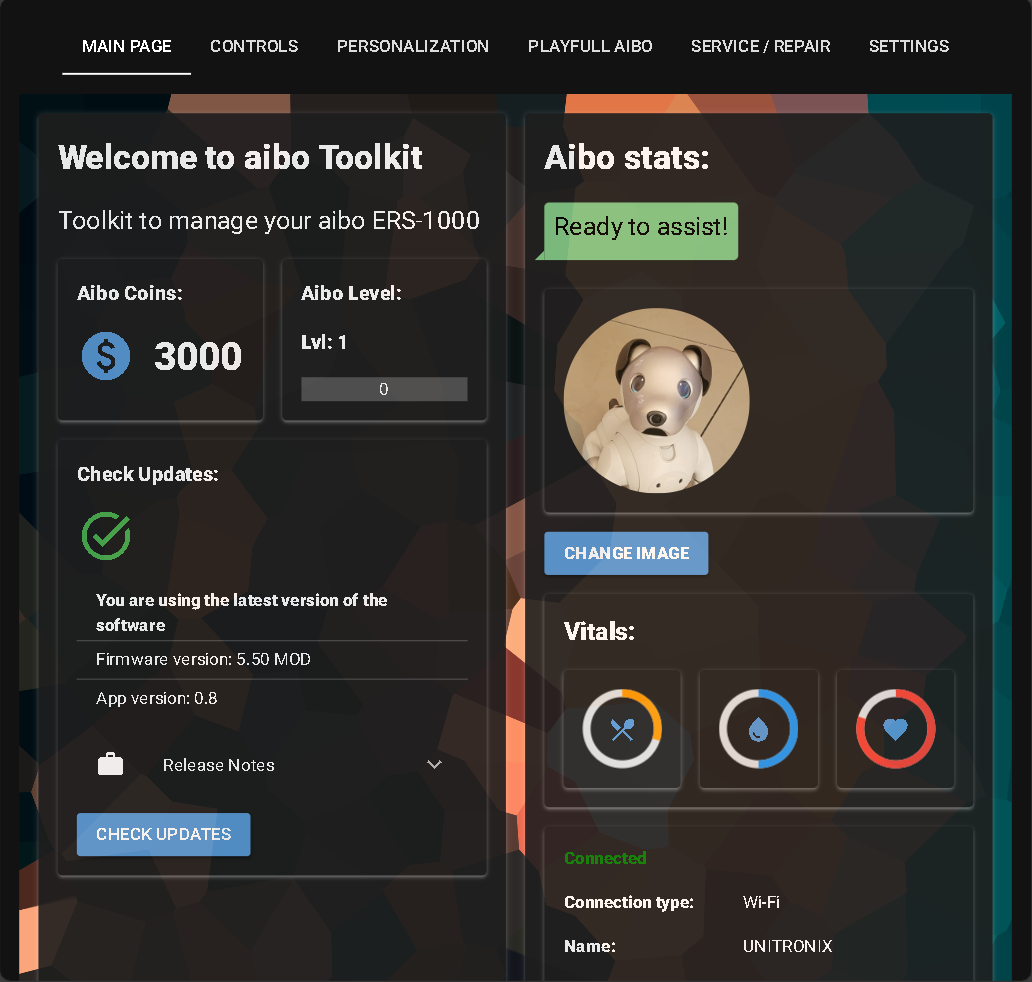
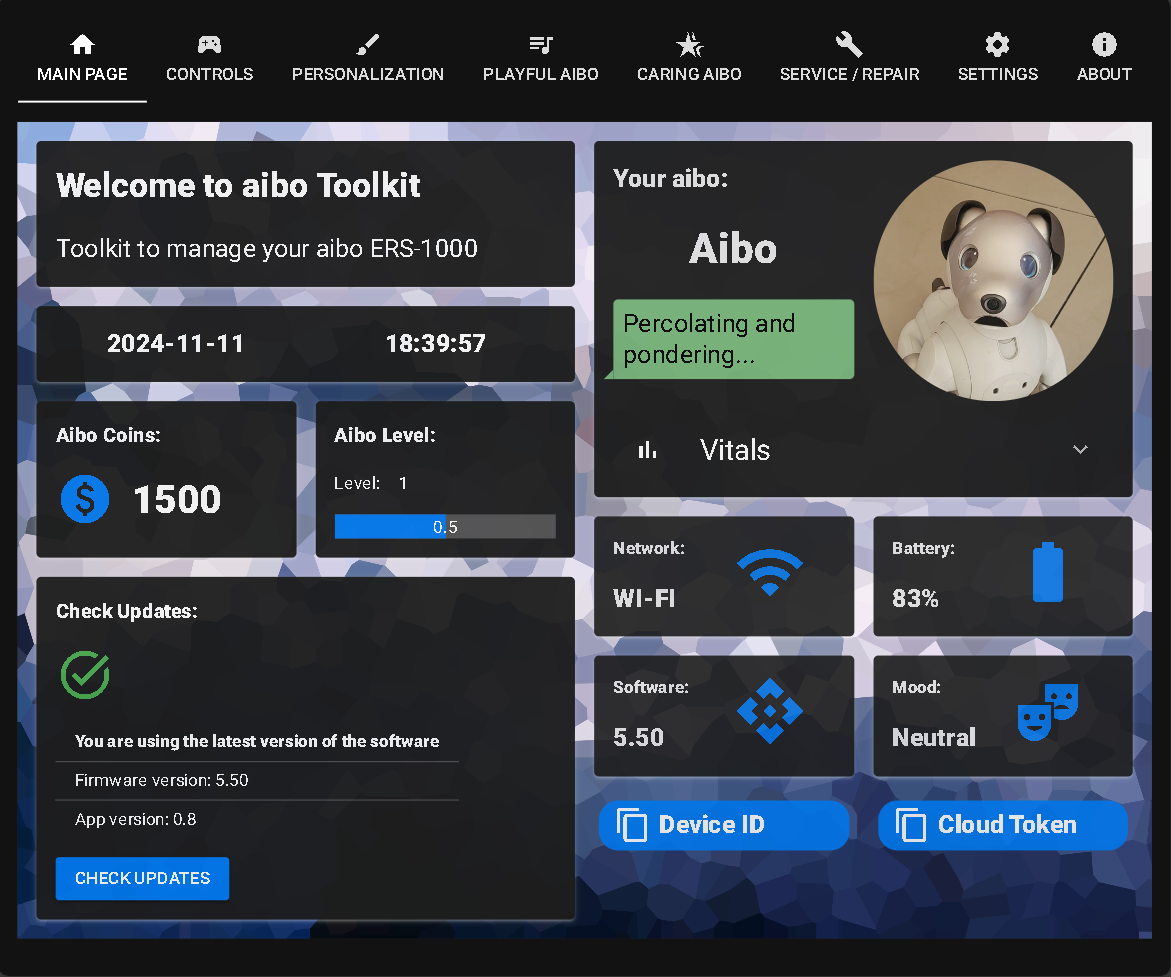
Micro update 11.11.2024 - New App image in Github desc

diff --git a/main.py b/main.py
@@ -146,7 +146,8 @@ with ui.tabs().classes('w-full') as tabs:
     home = ui.tab('Main Page', icon='home').style('font-size: 200%; font-weight: 1000')
     controls = ui.tab('Controls', icon='sports_esports').style('font-size: 200%; font-weight: 1000')
     personalization = ui.tab('Personalization', icon='brush').style('font-size: 200%; font-weight: 1000')
-    playful_aibo = ui.tab('Playfull Aibo', icon='hotel_class').style('font-size: 200%; font-weight: 1000')
+    playful_aibo = ui.tab('Playful Aibo', icon='queue_music').style('font-size: 200%; font-weight: 1000')
+    careful_aibo = ui.tab('Caring Aibo', icon='hotel_class').style('font-size: 200%; font-weight: 1000')
     service = ui.tab('Service / Repair', icon='build').style('font-size: 200%; font-weight: 1000')
     settings = ui.tab('Settings', icon='settings').style('font-size: 200%; font-weight: 1000')
     about = ui.tab('About', icon='info').style('font-size: 200%; font-weight: 1000')
@@ -354,7 +355,17 @@ with ui.tab_panels(tabs, value=home).classes('w-full'):
                                 ui.label('Global Japanese for Aibo')
                                 ui.button('Apply', on_click=lambda: ui.notify('Japanese language applied to Aibo'))
     
-    # Playful Aibo
+    # New playful aibo tab
+    with ui.tab_panel(playful_aibo):
+        ui.image(background_image_set).classes('absolute inset-0')
+        with ui.row().classes('grid grid-cols-2 w-full'):
+            with ui.card():
+                ui.label('Default dance #1').style('font-size: 150%; font-weight: 1000')
+                ui.separator()
+                with ui.expansion('More info', icon='music_note').classes('w-full'):
+                    ui.label('Rich desc..').style('font-size: 110%; font-weight: 500')
+
+    # Caring Aibo Tab
     with ui.tab_panel(playful_aibo):
         ui.image(background_image_set).classes('absolute inset-0')
         with ui.row().classes('grid grid-cols-1 w-full') as home_row:          
@@ -504,7 +515,7 @@ with ui.tab_panels(tabs, value=home).classes('w-full'):
                     with ui.carousel(animated=True, arrows=True, navigation=True):
                         with ui.carousel_slide().classes('p-0'):
                             ui.image('images/background/35.png').classes('w-[500px] h-[500px]')
-                            ui.button('Select', on_click=bg_changer.close)
+                            ui.button('Select', on_click=bg_changer.close).classes('w-full')
                         with ui.carousel_slide().classes('p-0'):
                             ui.image('images/background/116.png').classes('w-[500px] h-[500px]')
                             ui.button('Select', on_click=bg_changer.close)
